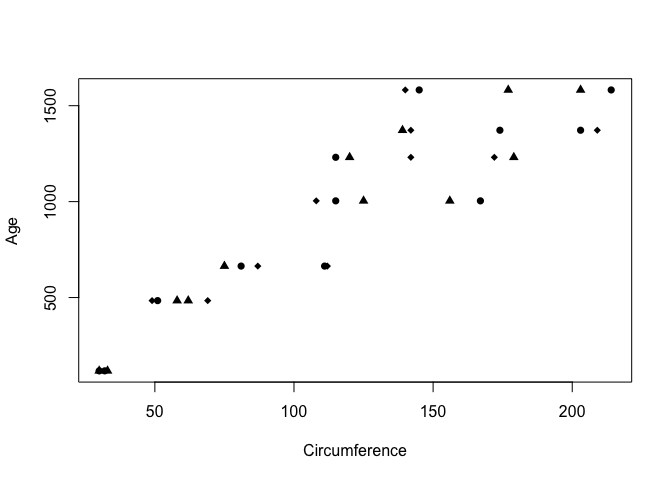
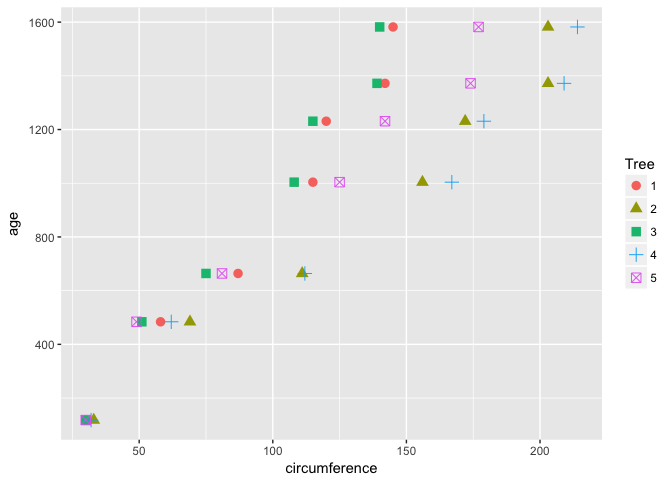
rollback the style of the tables

diff --git a/Analysis.md b/Analysis.md
@@ -9,9 +9,12 @@ As we are learning about Data Science we are building a tool box to help us in o
 ## Question 2 of the case study
 For our first example we will be using a built in data set called "Orange." Using the built in data set allows us to go straight to the analysis part of the problem.
 
-The first question we are going to answer is the mean and medians for the orange trees of different sizes.
+The first question we are going to answer is the mean and medians for the orange trees of different sizes. The table below shows mean and medians for every tree size.
 
 ```r
+library(plyr)
+library(ggplot2)
+
 # create a new data set with all the samme information as Orange
 data1 <- Orange  
 
@@ -40,7 +43,8 @@ Next we are going to show you some of the ways you can plot data.  We are first 
 
 
 ```r
-plot(data1$circumference, data1$age, xlab = "Circumference", ylab = "Age", pch = c(16,17,18))
+ggplot(data1, aes(x=circumference, y=age, col=Tree, shape=Tree)) + 
+geom_point(size=3)
 ```
 
 ![](Analysis_files/figure-html/unnamed-chunk-2-1.png)<!-- -->
@@ -71,9 +75,6 @@ Manipulate and plot the top 20 differences between maximum and minimum temperatu
 
 ```r
 #Step 1. Build Data.Frame with rows from 1900-01-01 and greater.
-library(plyr)
-library(ggplot2)
-
 #Read clean data
 temp1900 <- read.csv(file.path('data', "TEMP_clean.csv"), colClasses=c("Date", 'numeric', 'character'), sep=',')
 
@@ -166,29 +167,26 @@ df_newtemp # print off dataframe
 ##City Temperature
 For the third part of question 3,  (iii), the goal is to find the difference between the maximum and the minimum monthly average temperatures for each city listed in the data set.  Then report/visualize top 20 cities with the maximum differences for the period since 1900.
 
-
 ###Data Manipulation for Question (iii)
 Manipulate and plot the top 20 differences between maximum and minimum temperatures for cities.
 
 
 ```r
+# read the cleaned dataset
 CityTemp1900 <- read.csv(file.path('data', "CityTemp_clean.csv"), colClasses=c("Date", 'numeric', 'character', 'character'), sep=',')
 
-#Change to character class to do string compare.
-#CityTemp1900$Date <- as.character(CityTemp1900$Date)
-#CityTemp1900 <- na.omit(CityTemp1900)
-#CityTemp1900 <- subset(CityTemp1900, Date >= as.character("1/1/1900"))
-
+# filter only dates over 1990
 CityTemp1900 <- subset(CityTemp1900, Date >= as.Date("1990-01-01"))
 
-#Start the plyr split-apply-combine with difference between city max and min Temperature. Compute the difference between maximum & minimum #Temperature and order the result.
+#Start the plyr split-apply-combine with difference between city max and min Temperature.
+dfCity_summarise <- ddply(CityTemp1900, .(City), summarise, temp_min = min(Temperature), temp_max = max(Temperature))
 
-dfCity_summarise <- ddply(CityTemp1900, .(City), summarise,
-                      temp_min = min(Temperature), temp_max = max(Temperature))
+# Compute the difference between maximum & minimum
 dfCity_summarise$difference <- c(dfCity_summarise$temp_max-dfCity_summarise$temp_min)
 
 #Order
 dfCity_ordered <- dfCity_summarise[order(-dfCity_summarise$difference),]
+
 #Skinny down data frame to only what needs to be plotted
 dfCity_skinny<- dfCity_ordered[1:20,c(1,4)]
 ```
@@ -198,9 +196,8 @@ dfCity_skinny<- dfCity_ordered[1:20,c(1,4)]
 The variability in Temperature swings, as defined by maximum monthly temperature - minimum monthly temperature, is not as large as one would think.  In the top 20 Countries and Cities with the largest swings since 1900, the variability ranges between 31 and 49 degrees.  For City, in which 50% of the Cities are in China, their is an 18.04 degree average difference.  China, with an average temperature difference of 32.255, did not make the top 20 Countries with the largest difference.  For Country, there is a 13.89 degree difference between the average min and max.  All of the top 20 Countries are located in the northern part of the Northern Hemisphere, with Tajikistan being the southern most Country.  There seems to be a line of further research around temperature change in the northern most Countries of our world and Cities in China.
 
 
-<img src="Analysis_files/figure-html/unnamed-chunk-9-1.png" style="float:left" />
+<img src="Analysis_files/figure-html/unnamed-chunk-9-1.png" style="float:left" /><img src="Analysis_files/figure-html/unnamed-chunk-9-2.png" style="float:left" />
+<br/>
 
-<img src="Analysis_files/figure-html/unnamed-chunk-10-1.png" style="float:left" />
-
-##Conclusion
+## Conclusion
 So in this case study we have covered some of the capabalites of R and what it can do for upcoming data sciencetists.  We have used the built in data set and showed some of the statistical capablities of R by calculating the mean and medain of different orange tree trunks.  We showed some of the ploting capabilities by showing a scatterplot and boxplot on the orange tree dataset.  We have also shown the capabilities or R to download and clean large data sets easily by finding the differnet max and min monthly average temperature for the top countries with the greatest swing in temperature.  Then we cut the dataset down nd add a new column using a formula, we plotted the new dataset based on yearly means with at basic plot function.  We used a loop to cut the smaller data set down to two year increments.  And finally we downloaded, cleaned , and manipulated the temperature max and mins for the top twenty cities with the highest greatest temperature swing and compared it graphically against the top twenty countries. As you can see R is a versitial tool to be in your toolbox as you move on in you data science career.
